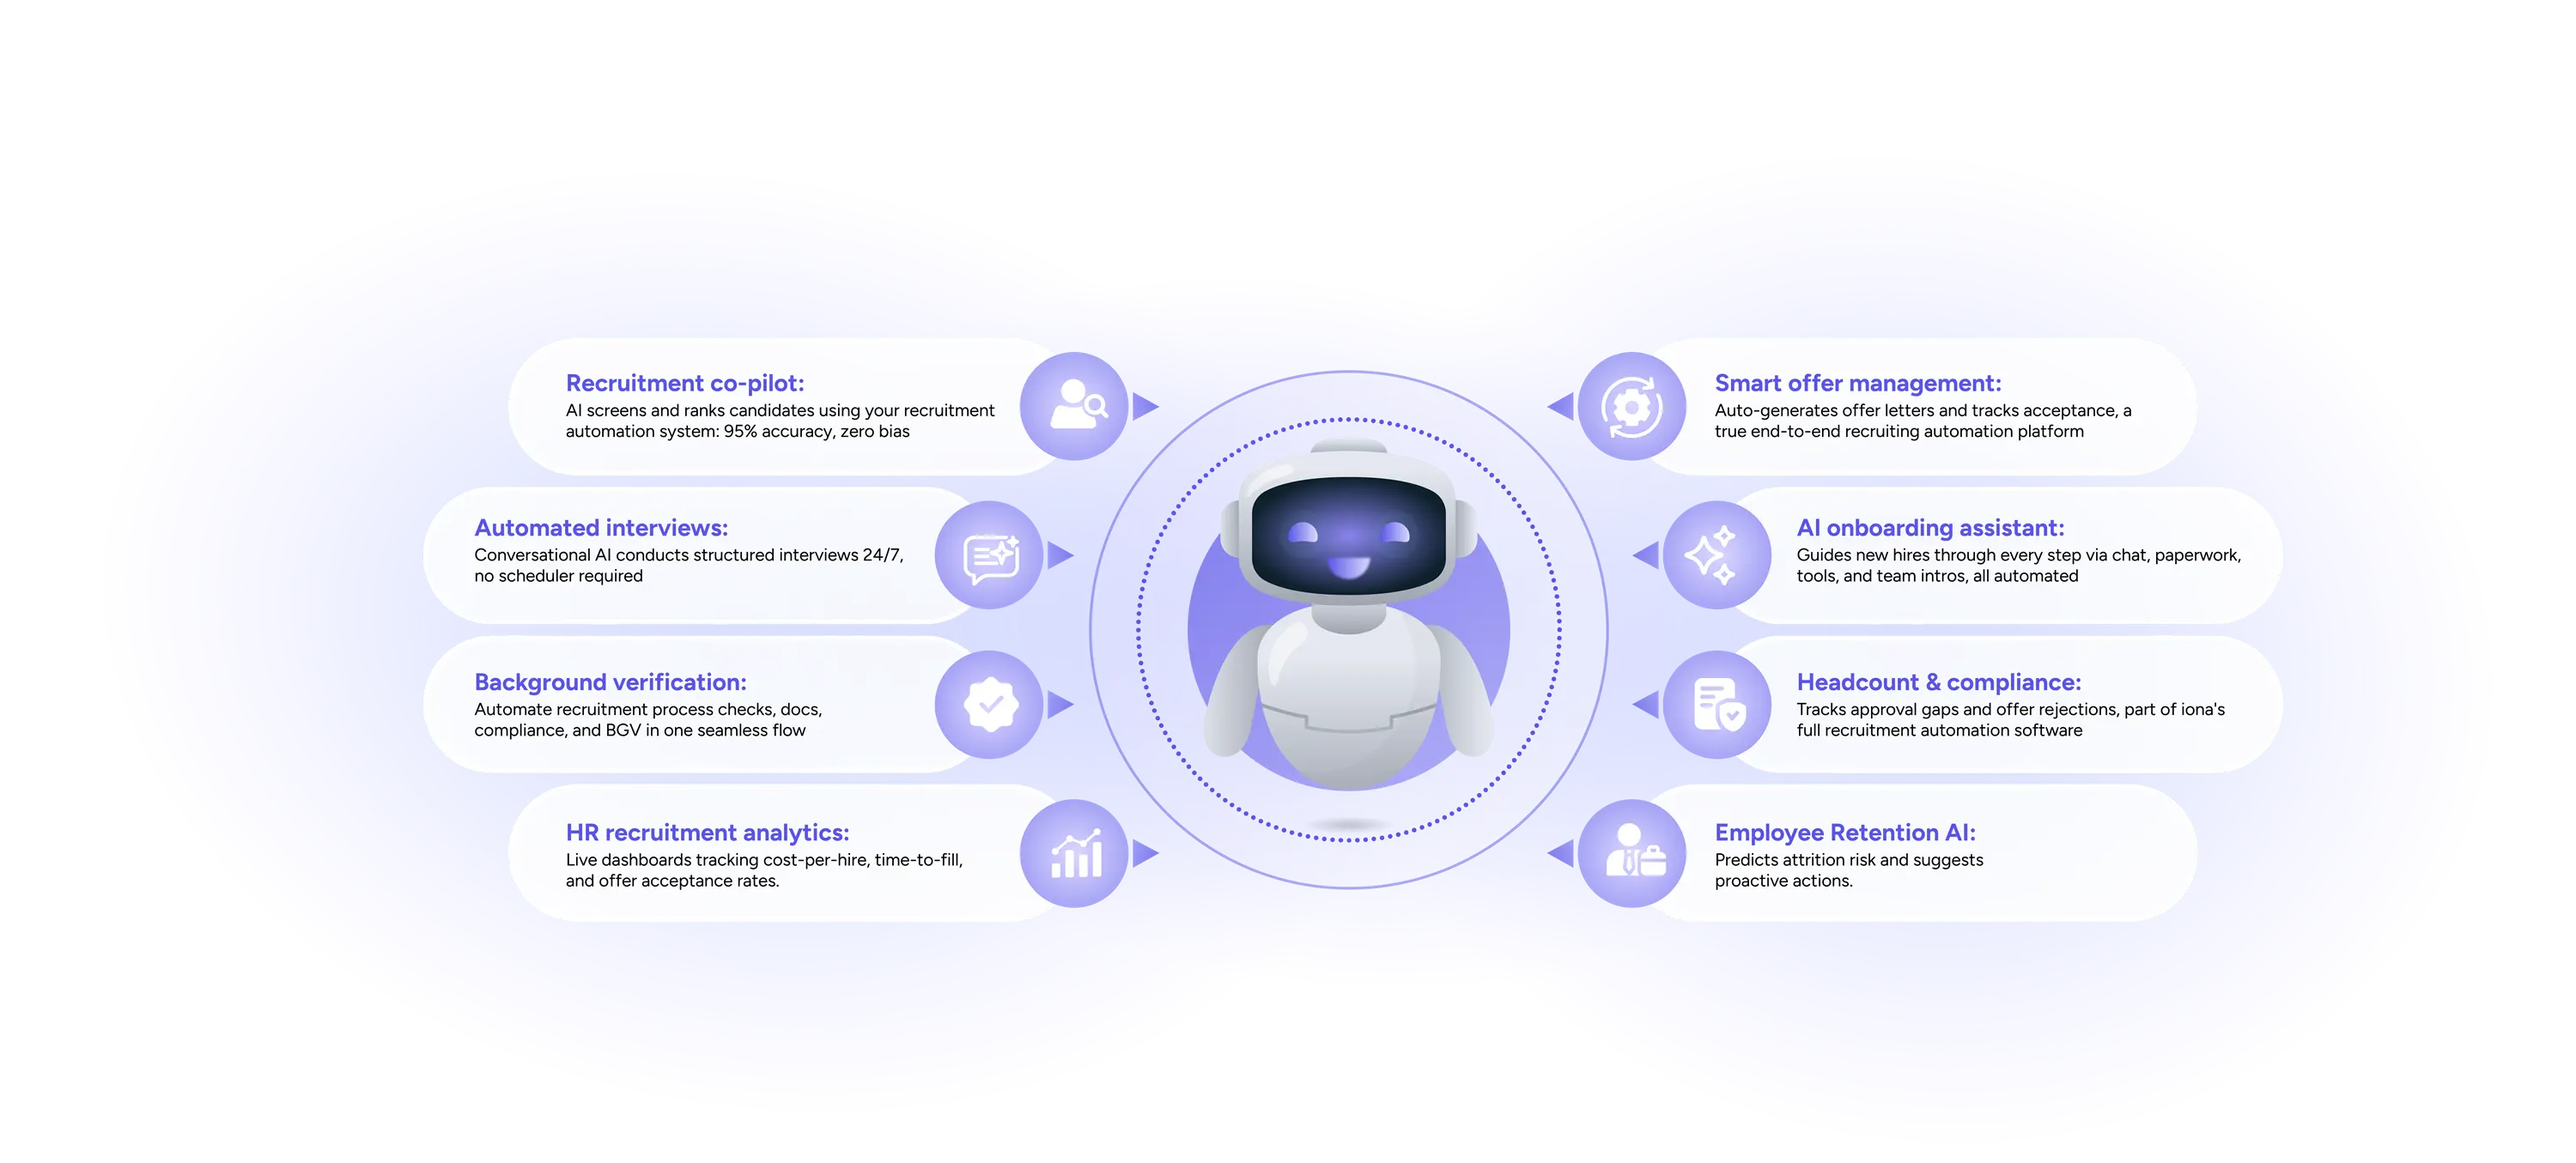
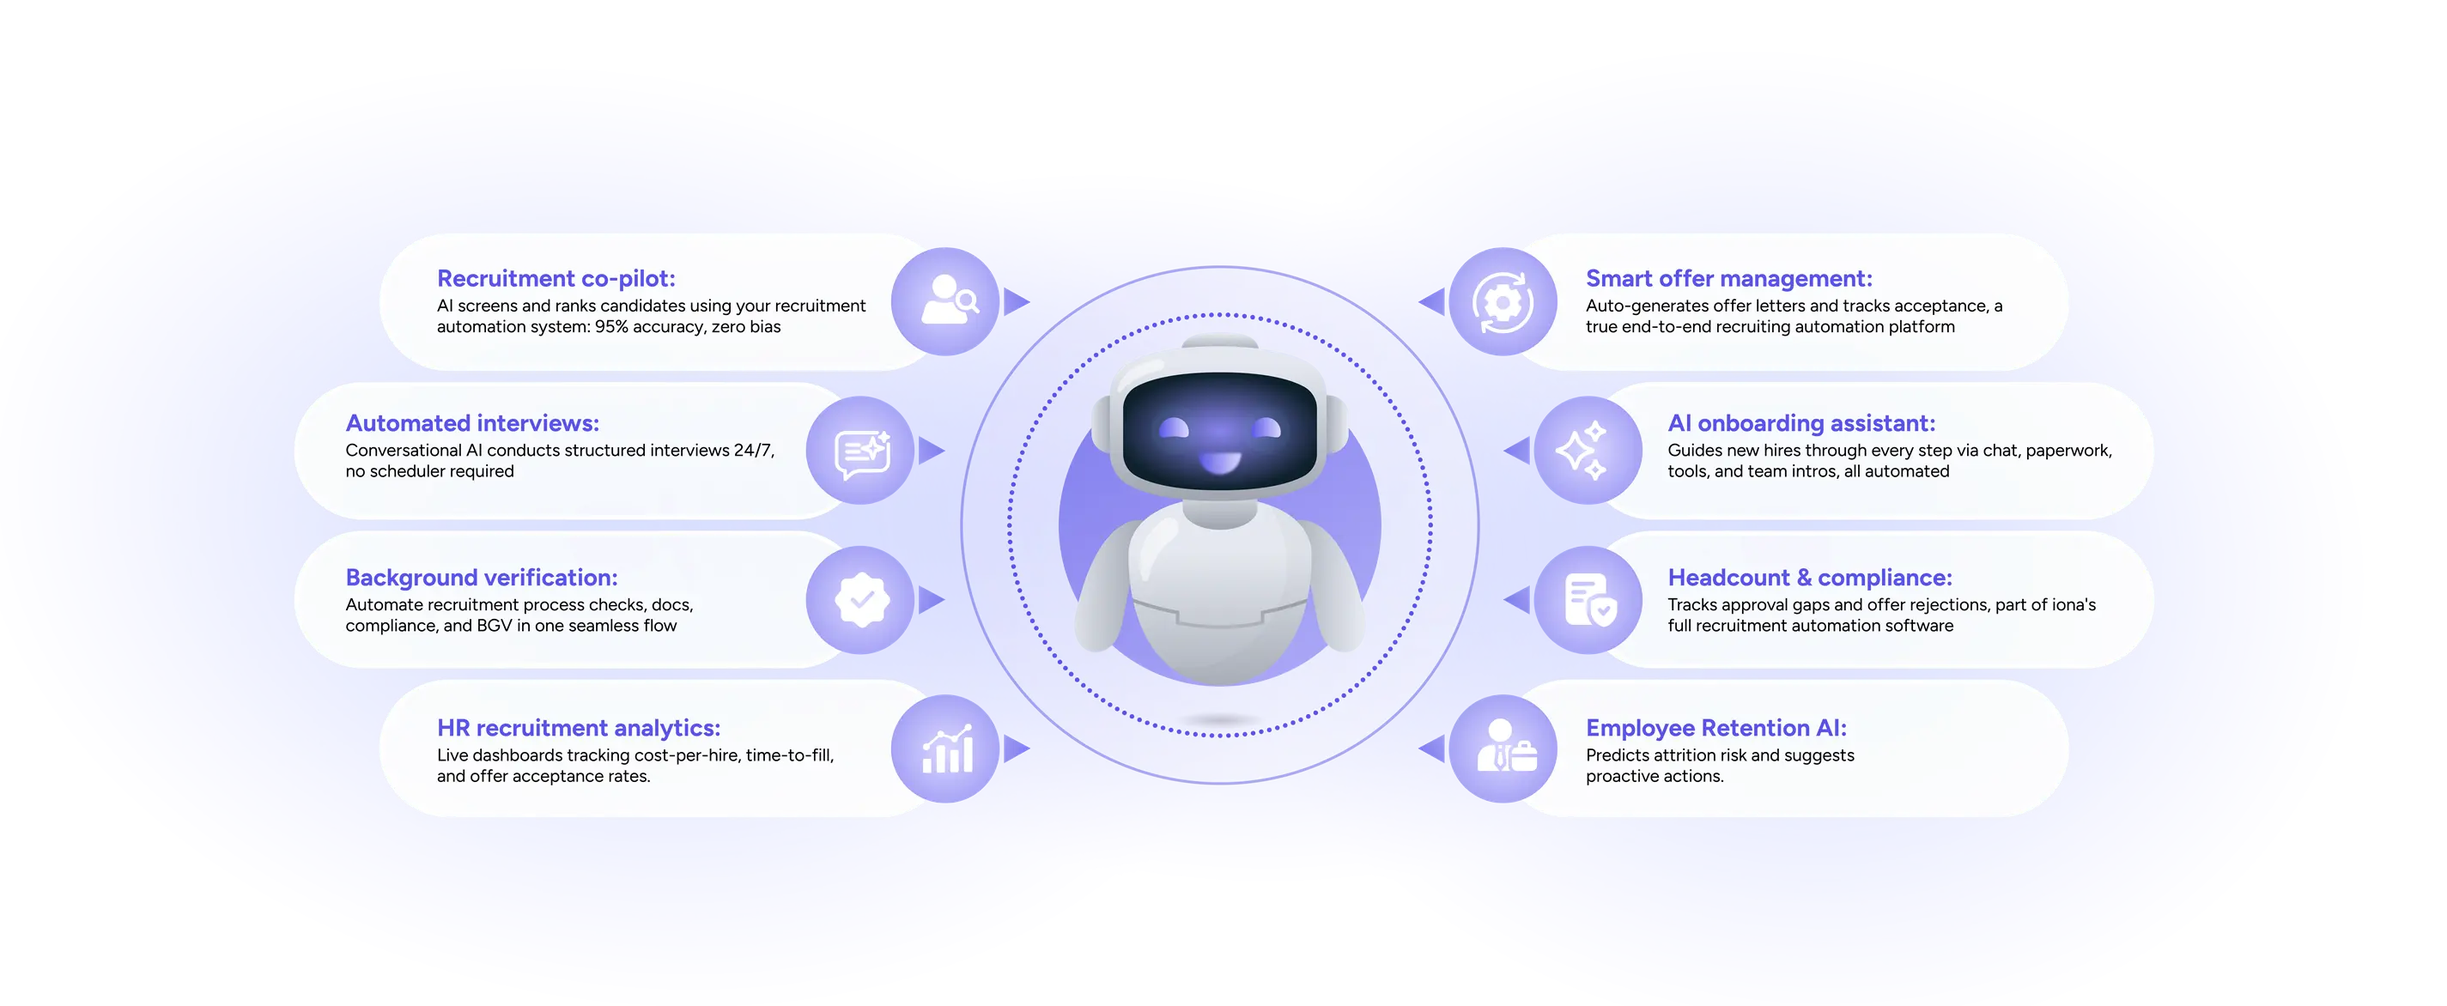
img update

Changed region(s): [[0.1249, 0.2457, 0.8744, 0.7986], [0.4684, 0.2457, 0.5309, 0.2765], [0.4684, 0.7679, 0.4996, 0.7986]]

diff --git a/src/components/Pages/HomePage/HowWeWork.jsx b/src/components/Pages/HomePage/HowWeWork.jsx
@@ -18,7 +18,7 @@ function HowWeWork() {
           src="/assets/pages/homepage/home-design.webp"
           alt="how iona work"
           title="how iona work"
-          className="w-full max-w-[1440px] object-contain fade-in-delay"
+          className="w-full mx-auto max-w-[1440px] object-contain fade-in-delay"
           loading="lazy"
         />
 
